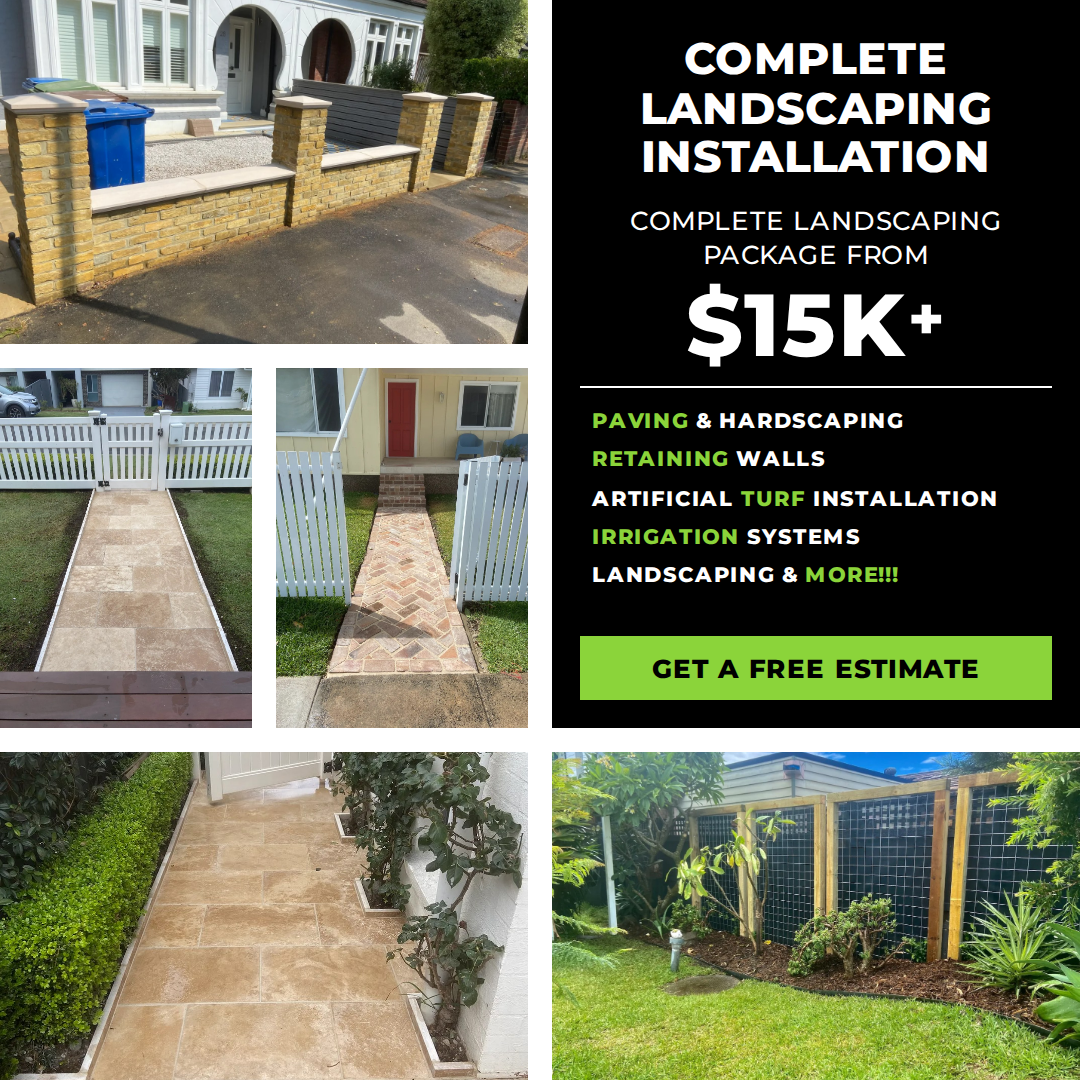
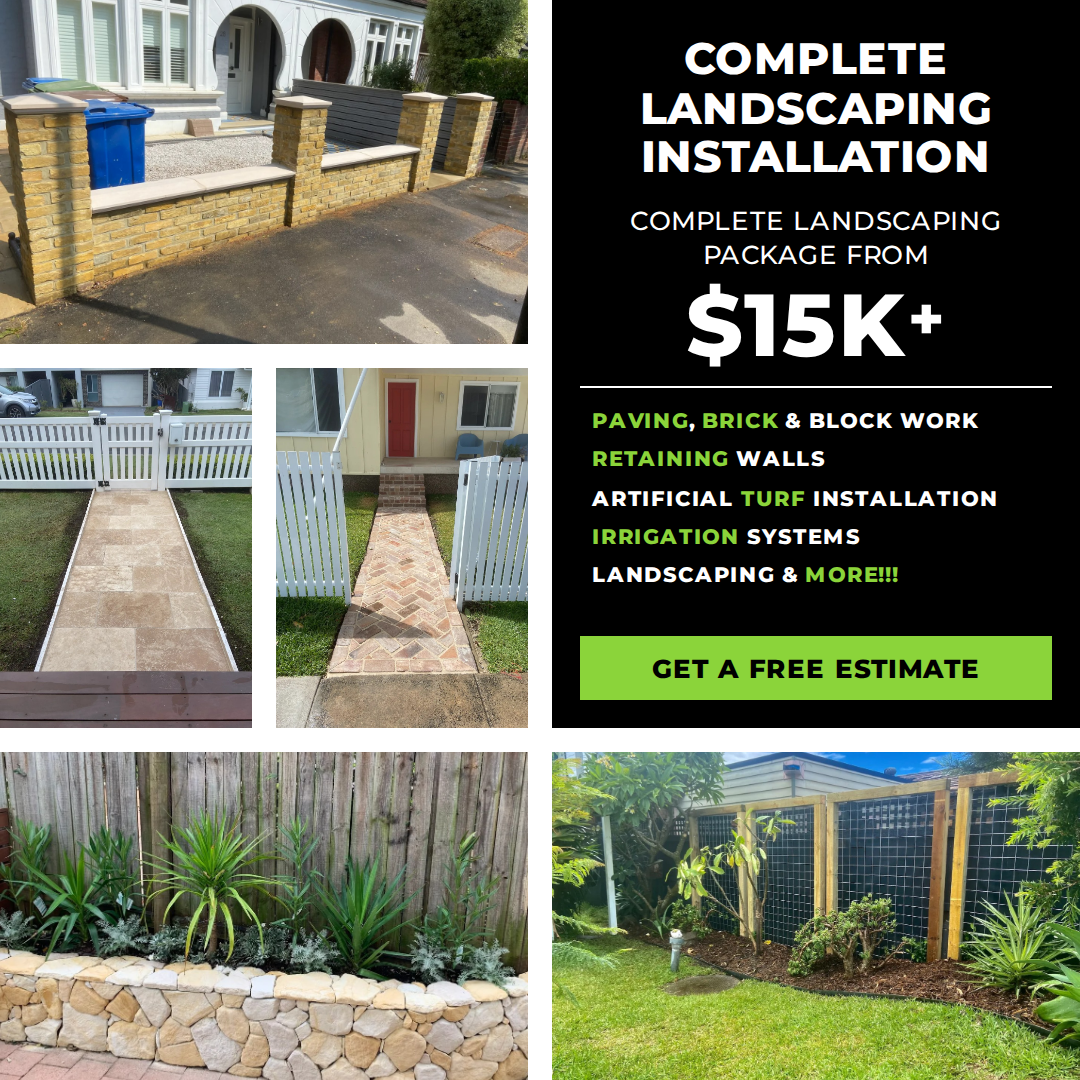
Swap in stone garden wall photo and add brick & block work to ad
Claude-Session: https://claude.ai/code/session_01Kp3iAUfScQwAQYUi1SKLzt

Changed region(s): [[0.0, 0.6722, 0.4889, 1.0], [0.6417, 0.3667, 0.9167, 0.3972]]

diff --git a/ad/ad.html b/ad/ad.html
@@ -24,7 +24,7 @@
   .p2 { grid-area: p2; display: grid; grid-template-columns: 1fr 1fr; gap: 12px; }
   .p2a { background-image: url(images/travertine-front-path.jpg); background-position: center 55%; }
   .p2b { background-image: url(images/herringbone-brick-path.jpg); background-position: center 55%; }
-  .p3 { grid-area: p3; background-image: url(images/travertine-side-path.jpg); background-position: center 62%; }
+  .p3 { grid-area: p3; background-image: url(images/stone-garden-wall.jpg); background-size: 125%; background-position: 40% 92%; }
   .p4 { grid-area: p4; background-image: url(images/garden-screen-turf.jpg); background-position: center 55%; }
   .panel {
     grid-area: panel; background: #000; color: #fff;
@@ -67,7 +67,7 @@
       <div class="price">$15K<small>+</small></div>
       <div class="rule"></div>
       <ul>
-        <li><span class="g">Paving</span> &amp; hardscaping</li>
+        <li><span class="g">Paving</span>, <span class="g">brick</span> &amp; block work</li>
         <li><span class="g">Retaining</span> walls</li>
         <li>Artificial <span class="g">turf</span> installation</li>
         <li><span class="g">Irrigation</span> systems</li>
